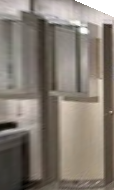
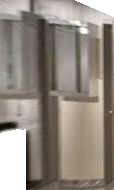
Hallway: the trash bin down the corridor as a 3D room object
The bin (18x39 px, 27 m away) is too small/tapered for auto-detection, so
it's added to the hand annotation with the editor's object tool; depth from
its floor contact row, ~55 cm deep. Rebuilt scenes/hallway; figure
outputs/hallway/trash_bin_object.jpg shows it standing out from the wall and
uncovering holes when walking down the corridor.

push_pull_fill: faces with no photo data at all (an object's far side) now
fill neutral grey instead of black.

Changed region(s): [[0.0, 0.6579, 0.2368, 1.0]]

diff --git a/tip/textures.py b/tip/textures.py
@@ -133,6 +133,9 @@ def push_pull_fill(rgba: np.ndarray) -> np.ndarray:
     a = rgba[..., 3:4].copy()
     if a.min() > 0.999:
         return rgba.copy()
+    if a.max() < 1e-6:
+        # Nothing seen at all (e.g. the far side of an object): neutral grey.
+        return np.concatenate([np.full_like(rgb, 0.5), np.ones_like(a)], axis=-1).astype(np.float32)
 
     def down(x):
         h, w = x.shape[:2]

diff --git a/README.md b/README.md
@@ -20,6 +20,10 @@ Camera sweep with the simple fill: [`outputs/hallway/sweep.gif`](outputs/hallway
 
 <img src="outputs/furnished_room/objects_demo.jpg" width="820">
 
+On the hallway photo, the one room-aligned object is the gray trash bin 27 m down the corridor. It's only about 18×39 px and tapered, too small for automatic detection, so it was added in the editor with `o`. Its depth comes from where its bottom meets the floor. Walking down the corridor, it stands out from the wall as a box and uncovers the floor and wall behind it. The extinguishers are round and wall-mounted, so they stay flat cutouts.
+
+<img src="outputs/hallway/trash_bin_object.jpg" width="820">
+
 ## Quick start
 
 ```bash
@@ -89,7 +93,7 @@ python scripts/build_scene.py data/annotations/my_room.json
 
    This rules out posters and doors on side walls (their top and bottom edges slant toward the VP), pictures on the back wall (nothing recedes), and the room's own openings (they contain the VP). Furniture edges can pose as room edges, so when objects are found, the back wall is searched again with their outlines masked out.
 
-On synthetic rooms with known geometry, the VP is within about 5 px and the back wall within 4 px. On two synthetic corridors, one with even 1.5× steps and one with uneven 1.1× and 2.5× steps, the deeper boxes are within about 5 px. The earlier fixed-1.5×-step version misplaced the uneven case's first box by 45 px and added two fake boxes. On the hallway, the back wall is within 12 px of the hand annotation. Detection finds 2 boxes down the corridor: at the left-wall step (y = 736 vs. 740 by hand) and at the end wall (658 vs. 666). It doesn't split where I did by hand at y = 790, since there's no strong edge there. The VP comes out at (480, 615), where straight lines fit to the four room edges cross (they all meet within about 10 px). My hand-placed VP (492, 628) is about 15 px off. On two furnished synthetic rooms (a cabinet against the wall, a low box, a table straddling the center, and a wardrobe taller than eye level, plus a poster and a door as decoys), all 4 objects are found. Front faces are within 2 px and the back edges within 4 px (about 3% of the object's depth). There are no detections in the empty rooms, the corridors or the hallway (whose front room has no furniture, only round extinguishers). This hasn't been tried on a real photo with furniture yet. Free-form foreground objects (people, plants, the extinguishers) are still outlined by hand in the editor.
+On synthetic rooms with known geometry, the VP is within about 5 px and the back wall within 4 px. On two synthetic corridors, one with even 1.5× steps and one with uneven 1.1× and 2.5× steps, the deeper boxes are within about 5 px. The earlier fixed-1.5×-step version misplaced the uneven case's first box by 45 px and added two fake boxes. On the hallway, the back wall is within 12 px of the hand annotation. Detection finds 2 boxes down the corridor: at the left-wall step (y = 736 vs. 740 by hand) and at the end wall (658 vs. 666). It doesn't split where I did by hand at y = 790, since there's no strong edge there. The VP comes out at (480, 615), where straight lines fit to the four room edges cross (they all meet within about 10 px). My hand-placed VP (492, 628) is about 15 px off. On two furnished synthetic rooms (a cabinet against the wall, a low box, a table straddling the center, and a wardrobe taller than eye level, plus a poster and a door as decoys), all 4 objects are found. Front faces are within 2 px and the back edges within 4 px (about 3% of the object's depth). There are no detections in the empty rooms, the corridors or the hallway. The hallway's only box-shaped object, the trash bin far down the corridor, is below the detector's size limit (it was added by hand, see above). This hasn't been tried on a real photo with furniture yet. Free-form foreground objects (people, plants, the extinguishers) are still outlined by hand in the editor.
 
 You can also write the annotation JSON by hand (see [`data/annotations/hallway.json`](data/annotations/hallway.json)):
 
